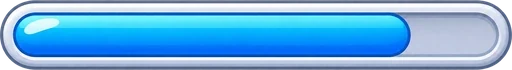
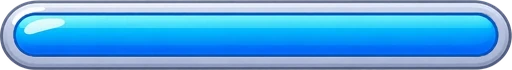
1.

diff --git a/sw.js b/sw.js
@@ -1,6 +1,6 @@
 // Offline gyorsítótár. Hálózat az első: ha van internet, mindig a legfrissebb változat töltődik be,
 // internet nélkül a tárolt példány indul.
-const CACHE = 'lrf-a918c4e48b';
+const CACHE = 'lrf-b4a771ad28';
 const FILES = ["./", "assets/art.json", "assets/fonts/fredoka_bold.ttf", "assets/fonts/fredoka_medium.ttf", "assets/fonts/fredoka_semibold.ttf", "assets/fonts/nunito_bold.ttf", "assets/fonts/nunito_extrabold.ttf", "assets/fonts/nunito_regular.ttf", "assets/fonts/nunito_semibold.ttf", "assets/img/backgrounds/bg_world_1.webp", "assets/img/backgrounds/bg_world_10.webp", "assets/img/backgrounds/bg_world_11.webp", "assets/img/backgrounds/bg_world_12.webp", "assets/img/backgrounds/bg_world_2.webp", "assets/img/backgrounds/bg_world_3.webp", "assets/img/backgrounds/bg_world_4.webp", "assets/img/backgrounds/bg_world_5.webp", "assets/img/backgrounds/bg_world_6.webp", "assets/img/backgrounds/bg_world_7.webp", "assets/img/backgrounds/bg_world_8.webp", "assets/img/backgrounds/bg_world_9.webp", "assets/img/levels/deep_water_tile.webp", "assets/img/levels/ground_world_1.webp", "assets/img/levels/ground_world_10.webp", "assets/img/levels/ground_world_11.webp", "assets/img/levels/ground_world_12.webp", "assets/img/levels/ground_world_2.webp", "assets/img/levels/ground_world_3.webp", "assets/img/levels/ground_world_4.webp", "assets/img/levels/ground_world_5.webp", "assets/img/levels/ground_world_6.webp", "assets/img/levels/ground_world_7.webp", "assets/img/levels/ground_world_8.webp", "assets/img/levels/ground_world_9.webp", "assets/img/levels/lava_cooled_tile.webp", "assets/img/levels/lava_tile.webp", "assets/img/levels/quicksand_tile.webp", "assets/img/levels/space_tile.webp", "assets/img/levels/water_tile.webp", "assets/img/obstacles/boulder.webp", "assets/img/obstacles/boulder_cracked.webp", "assets/img/obstacles/box.webp", "assets/img/obstacles/bridge_cloud.webp", "assets/img/obstacles/bridge_crystal.webp", "assets/img/obstacles/bridge_glass.webp", "assets/img/obstacles/bridge_plank.webp", "assets/img/obstacles/bridge_wafer.webp", "assets/img/obstacles/button_down.webp", "assets/img/obstacles/button_up.webp", "assets/img/obstacles/cave.webp", "assets/img/obstacles/cave_dark.webp", "assets/img/obstacles/chocolate_wall.webp", "assets/img/obstacles/chocolate_wall_after.webp", "assets/img/obstacles/clam.webp", "assets/img/obstacles/clam_after.webp", "assets/img/obstacles/cliff.webp", "assets/img/obstacles/cloud_wall.webp", "assets/img/obstacles/cloud_wall_after.webp", "assets/img/obstacles/conveyor.webp", "assets/img/obstacles/crane_hook.webp", "assets/img/obstacles/crane_post.webp", "assets/img/obstacles/crane_pulley.webp", "assets/img/obstacles/crystal_spikes.webp", "assets/img/obstacles/crystal_wall.webp", "assets/img/obstacles/crystal_wall_after.webp", "assets/img/obstacles/door.webp", "assets/img/obstacles/flag_goal.webp", "assets/img/obstacles/flag_start.webp", "assets/img/obstacles/gate.webp", "assets/img/obstacles/gear_gate.webp", "assets/img/obstacles/hill.webp", "assets/img/obstacles/ice_block.webp", "assets/img/obstacles/ice_block_melting.webp", "assets/img/obstacles/ice_hill.webp", "assets/img/obstacles/ice_puddle.webp", "assets/img/obstacles/key.webp", "assets/img/obstacles/ledge.webp", "assets/img/obstacles/ledge_world_10.webp", "assets/img/obstacles/ledge_world_12.webp", "assets/img/obstacles/ledge_world_2.webp", "assets/img/obstacles/ledge_world_3.webp", "assets/img/obstacles/ledge_world_5.webp", "assets/img/obstacles/ledge_world_6.webp", "assets/img/obstacles/ledge_world_7.webp", "assets/img/obstacles/ledge_world_8.webp", "assets/img/obstacles/ledge_world_9.webp", "assets/img/obstacles/lever_down.webp", "assets/img/obstacles/lever_up.webp", "assets/img/obstacles/lift_platform.webp", "assets/img/obstacles/locked_door.webp", "assets/img/obstacles/locked_door_after.webp", "assets/img/obstacles/metal_tower.webp", "assets/img/obstacles/plate_down.webp", "assets/img/obstacles/plate_up.webp", "assets/img/obstacles/pudding.webp", "assets/img/obstacles/pudding_after.webp", "assets/img/obstacles/raft.webp", "assets/img/obstacles/rock_wall.webp", "assets/img/obstacles/rock_wall_cracked.webp", "assets/img/obstacles/rock_wall_tunnel.webp", "assets/img/obstacles/rubble.webp", "assets/img/obstacles/seaweed.webp", "assets/img/obstacles/seaweed_after.webp", "assets/img/obstacles/sticky_gum.webp", "assets/img/obstacles/switch_off.webp", "assets/img/obstacles/switch_on.webp", "assets/img/obstacles/thorns.webp", "assets/img/obstacles/thorns_cut.webp", "assets/img/obstacles/thorns_half.webp", "assets/img/obstacles/traffic_gate_arm.webp", "assets/img/obstacles/traffic_gate_post.webp", "assets/img/obstacles/vine_branch.webp", "assets/img/obstacles/windmill_blades.webp", "assets/img/obstacles/windmill_tower.webp", "assets/img/robots/arm_air_pump.webp", "assets/img/robots/arm_basic.webp", "assets/img/robots/arm_drill.webp", "assets/img/robots/arm_extend.webp", "assets/img/robots/arm_fan.webp", "assets/img/robots/arm_grapple.webp", "assets/img/robots/arm_heater.webp", "assets/img/robots/arm_lamp.webp", "assets/img/robots/arm_magnet.webp", "assets/img/robots/arm_remote.webp", "assets/img/robots/arm_saw.webp", "assets/img/robots/arm_scoop.webp", "assets/img/robots/arm_strong.webp", "assets/img/robots/arm_tuning_fork.webp", "assets/img/robots/arm_water_cannon.webp", "assets/img/robots/arm_wrench.webp", "assets/img/robots/body_base.webp", "assets/img/robots/head_pointed.webp", "assets/img/robots/head_pointed__accent.webp", "assets/img/robots/head_round.webp", "assets/img/robots/head_round__accent.webp", "assets/img/robots/head_square.webp", "assets/img/robots/head_square__accent.webp", "assets/img/robots/mobility_float.webp", "assets/img/robots/mobility_glider.webp", "assets/img/robots/mobility_hover.webp", "assets/img/robots/mobility_propeller.webp", "assets/img/robots/mobility_rocket.webp", "assets/img/robots/mobility_spider.webp", "assets/img/robots/mobility_spider_body.webp", "assets/img/robots/mobility_spikes.webp", "assets/img/robots/mobility_spring.webp", "assets/img/robots/mobility_submarine.webp", "assets/img/robots/mobility_tracks.webp", "assets/img/robots/mobility_tracks_body.webp", "assets/img/robots/mobility_wheels.webp", "assets/img/robots/mobility_wheels_body.webp", "assets/img/robots/spider_leg.webp", "assets/img/robots/track_lug.webp", "assets/img/robots/track_roller.webp", "assets/img/robots/wheel.webp", "assets/img/robots/wheel_spikes.webp", "assets/img/ui/bulb_on.webp", "assets/img/ui/button_blue.webp", "assets/img/ui/button_green.webp", "assets/img/ui/button_grey.webp", "assets/img/ui/button_orange.webp", "assets/img/ui/button_round.webp", "assets/img/ui/icon_arm_up.webp", "assets/img/ui/icon_back.webp", "assets/img/ui/icon_bounce.webp", "assets/img/ui/icon_bulb.webp", "assets/img/ui/icon_check.webp", "assets/img/ui/icon_fly.webp", "assets/img/ui/icon_garage.webp", "assets/img/ui/icon_hint.webp", "assets/img/ui/icon_jump.webp", "assets/img/ui/icon_lock.webp", "assets/img/ui/icon_next.webp", "assets/img/ui/icon_parent.webp", "assets/img/ui/icon_play.webp", "assets/img/ui/icon_press.webp", "assets/img/ui/icon_pull.webp", "assets/img/ui/icon_push.webp", "assets/img/ui/icon_retry.webp", "assets/img/ui/icon_save.webp", "assets/img/ui/icon_settings.webp", "assets/img/ui/icon_sound_off.webp", "assets/img/ui/icon_sound_on.webp", "assets/img/ui/icon_team.webp", "assets/img/ui/icon_turn.webp", "assets/img/ui/icon_wrench.webp", "assets/img/ui/lock_badge.webp", "assets/img/ui/logo.webp", "assets/img/ui/progress_fill.webp", "assets/img/ui/progress_track.webp", "assets/img/ui/robot_badge.webp", "assets/img/ui/star.webp", "assets/img/ui/star_empty.webp", "assets/missions.json", "assets/sounds/blocked.wav", "assets/sounds/climb.wav", "assets/sounds/fly.wav", "assets/sounds/jump.wav", "assets/sounds/light.wav", "assets/sounds/new_part.wav", "assets/sounds/push.wav", "assets/sounds/select.wav", "assets/sounds/start.wav", "assets/sounds/success.wav", "assets/sounds/swim.wav", "assets/sounds/switch.wav", "assets/sounds/tap.wav", "assets/strings.json", "css/style.css", "icons/icon-192.png", "icons/icon-512.png", "index.html", "js/app.js", "js/art.js", "js/engine.js", "js/robot.js", "js/scene.js", "manifest.webmanifest"];
 self.addEventListener('install', (e) => {
   e.waitUntil(caches.open(CACHE).then((c) => c.addAll(FILES.map((f) => new Request(f, { cache: 'reload' })))).then(() => self.skipWaiting()));

diff --git a/js/app.js b/js/app.js
@@ -4,7 +4,7 @@ import { loadArt, img, Paths, C, ROBOT_COLORS, drawFit, drawStretch, drawTiled, 
 import { drawRobot, pose, drawMobilityThumb, drawArmThumb, G } from './robot.js';
 import { drawMission, newCamera, theme } from './scene.js';
 
-const VERSION = '1.5.8-web';
+const VERSION = '1.5.9-web';
 
 // ---- Szövegek ------------------------------------------------------------------------------
 let STR = {};

diff --git a/README.md b/README.md
@@ -1,8 +1,10 @@
-# Little Robot Factory – webes változat (1.5.8)
+# Little Robot Factory – webes változat (1.5.9)
 
 Böngészőben futó változat: ugyanaz a 12 világ, 240 küldetés, a műhely, a csapatok, a tippek, a három nyelv
 (magyar, német, angol), és a mozgó kerekek, lánctalp és póklábak, mint az Android-játékban.
 A haladás a böngészőben marad (localStorage), az első betöltés után internet nélkül is játszható.
+
+**1.5.9:** a haladásjelző a pálya végén teljesen megtelik.
 
 **1.5.8:** iPhone: a „Teljes képernyő” gomb elmagyarázza a kezdőképernyőre tételt (az iPhone böngészője nem enged teljes képernyőt); új „Fekvő nézet” gomb, amely álló telefonon is fekvőben mutatja a játékot.
 
